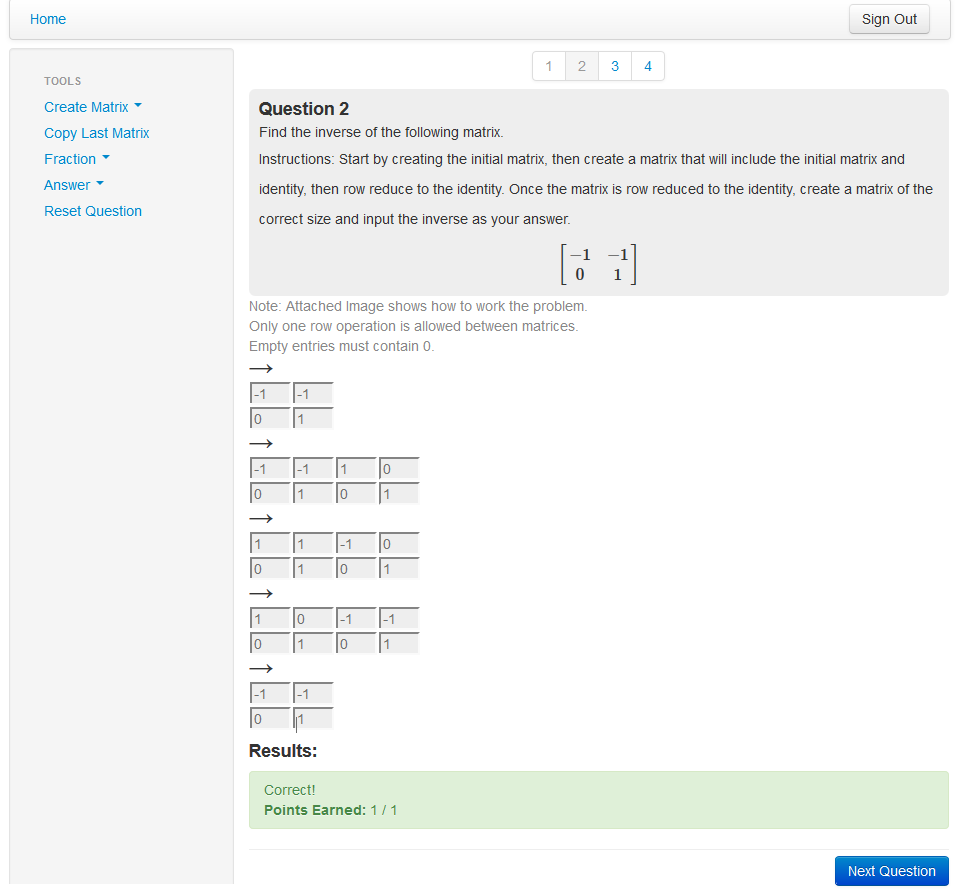
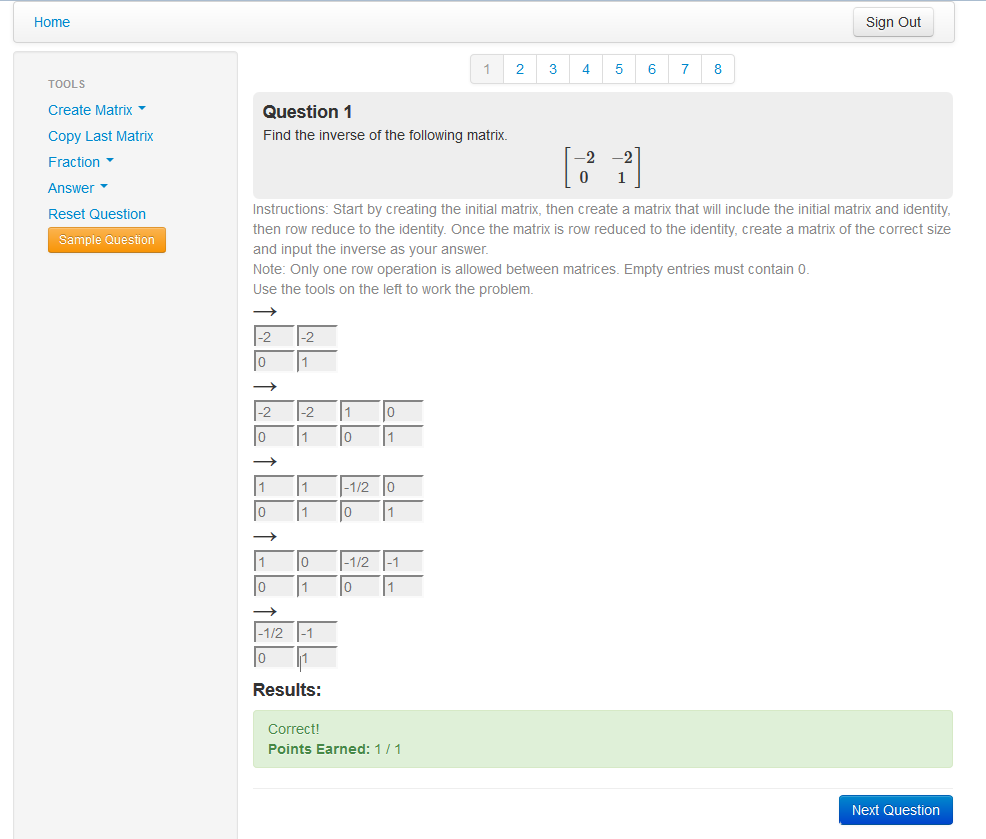
Updated Inverse question text, tested Tylers page,

diff --git a/LinearHomeworkInterface/LinearHomeworkInterface/ReducedRow.aspx.cs b/LinearHomeworkInterface/LinearHomeworkInterface/ReducedRow.aspx.cs
@@ -328,8 +328,6 @@ namespace LinearHomeworkInterface
                     //This is the catch all. Not sure how accurate it is
                     matrix = mb.generateRandomMatrix(n, m, min, max);
                 }
-                int rowOpsCount = mb.countOperationsNeeded(matrix) - 2;
-                rowOpsNeeded.Text = System.Convert.ToString(rowOpsCount);
 
                 //Do the parsing and text adding for question
                 instruction.Text = instruction.Text + "<h4 style=\"margin: 0px;\">Question " + queId + "</h4>\n"
@@ -339,8 +337,6 @@ namespace LinearHomeworkInterface
             {
                 matrix = mb.generateRandomIdentityMatrix(n, min, max);
 
-                int rowOpsCount = mb.countOperationsNeeded(matrix) - 2;
-                rowOpsNeeded.Text = System.Convert.ToString(rowOpsCount);
 
                 //Do the parsing and text adding for question
                 instruction.Text = instruction.Text + "<h4 style=\"margin: 0px;\">Question " + queId + "</h4>\n"

diff --git a/LinearHomeworkInterface/LinearHomeworkInterface/QuestionInverse.aspx.cs b/LinearHomeworkInterface/LinearHomeworkInterface/QuestionInverse.aspx.cs
@@ -366,7 +366,7 @@ namespace LinearHomeworkInterface
 
                 //Do the parsing and text adding for question
                 instruction.Text = instruction.Text + "<h4 style=\"margin: 0px;\">Question " + queId + "</h4>\n"
-                    + "<p style=\"margin: 0px; line-height: 25px; font-size: 14px;\">Find the inverse of the following matrix.</p><p>Instructions: Start by creating the initial matrix, then create a matrix that will include the initial matrix and identity, then row reduce to the identity. Once the matrix is row reduced to the identity, create a matrix of the correct size and input the inverse as your answer.</p>";
+                    + "<p style=\"margin: 0px; line-height: 25px; font-size: 14px;\">Find the inverse of the following matrix.</p>";
             }
 
             return matrix;

diff --git a/LinearHomeworkInterface/LinearHomeworkInterface/components/MatrixBuilder.cs b/LinearHomeworkInterface/LinearHomeworkInterface/components/MatrixBuilder.cs
@@ -644,7 +644,7 @@ namespace MatrixBuilder
                 int[] rows = (int[])changedRows.ToArray(typeof(int));
                 int row1 = rows[0];
                 int row2 = rows[1];
-                for (int i = 0; i < oldMatrix.GetLength(0); i++)
+                for (int i = 0; i < oldMatrix.GetLength(1); i++)
                 {
                     if (oldMatrix[row1, i] != newMatrix[row2, i] || oldMatrix[row2, i] != newMatrix[row1, i])
                     {
